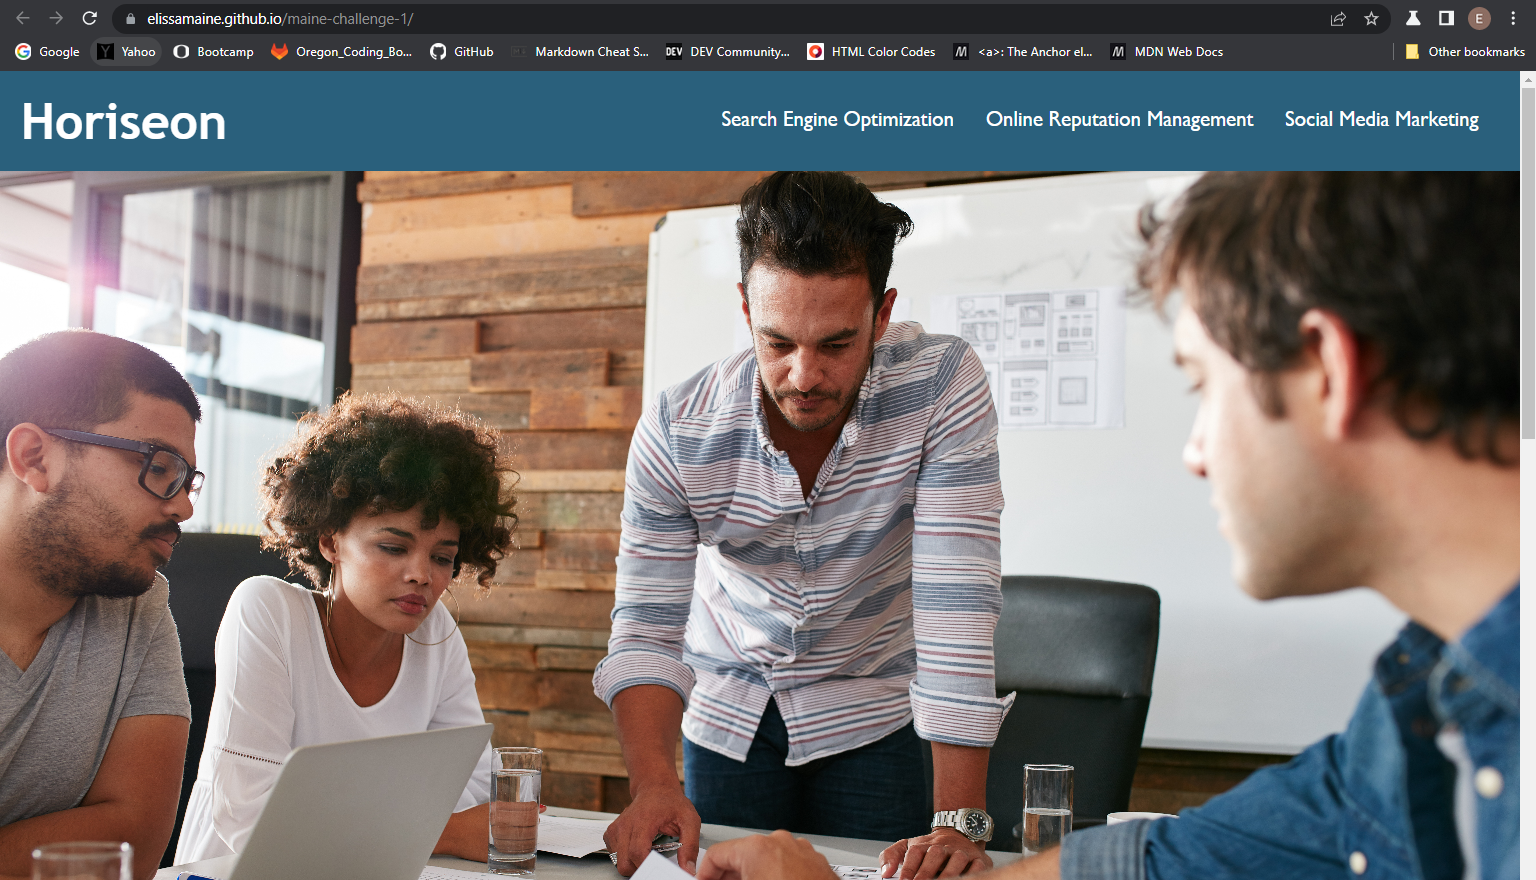
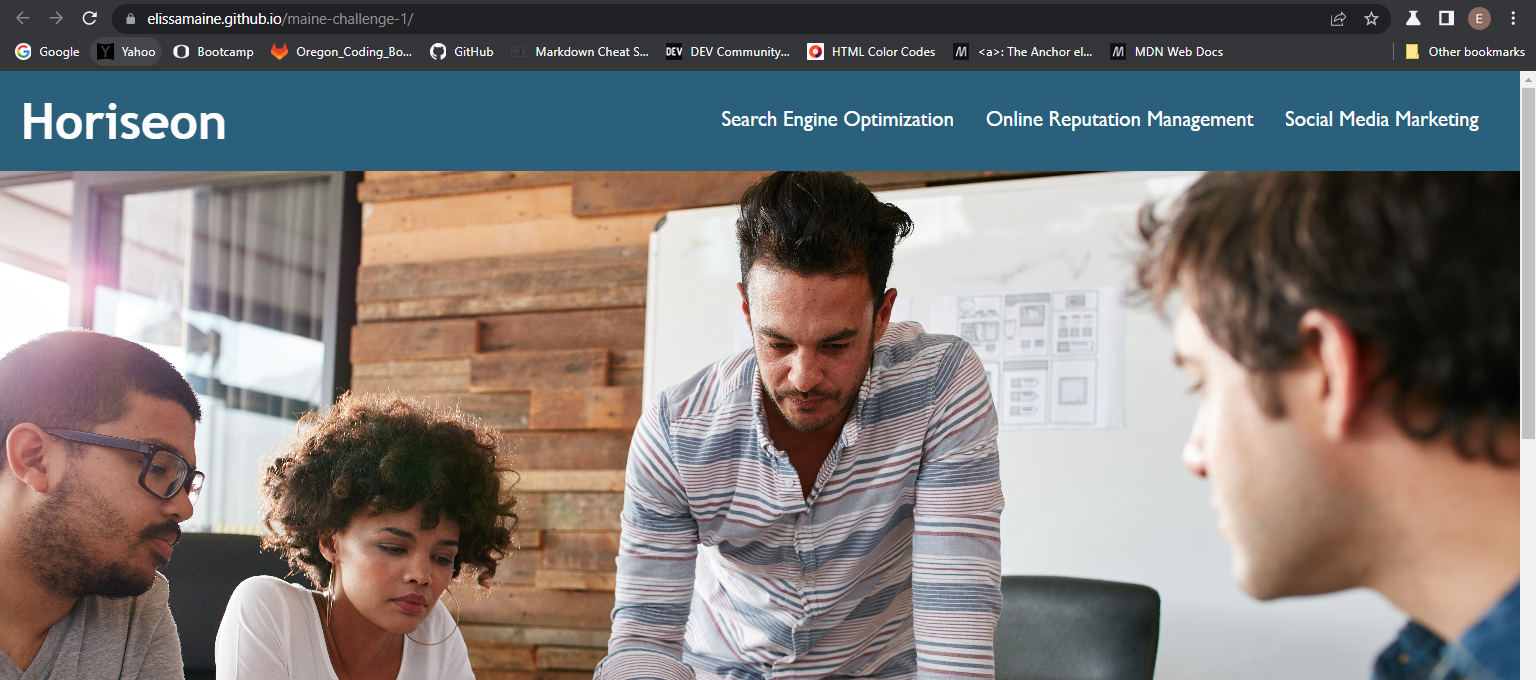
added footer and finished the body element on the css, also did some edits to html doc

diff --git a/index.html b/index.html
@@ -33,12 +33,12 @@
 
             <section class="page-section" id="about-me">
                 <h2>&#127812 About Me</h2>
+                 <div class="picture-of-me">
+                    <img src="./assets/images/picture-of-me-1.jpg" alt="picture of Elissa Maine">
+                </div>
                 <div>
                     <p>Hello! my name is Elissa Maine! I'm 25, and originally from San Diego California but have recently moved to southern Washington. I am currently studying to become a developer through the University of Oregon's coding bootcamp. I originally got my degree in Geology, but decided to change paths to a career that I would enjoy more.</p>
                     <p>I had no prior coding experience before enrolling in the coding bootcamp, and I've already learned a lot in the first 3 weeks of the course. I'm excited to learn a lot more in the upcoming weeks and find a job puting these skills to use. </p>
-                </div>
-                <div class="picture-of-me">
-                    <img src="./assets/images/picture-of-me-1.jpg" alt="picture of Elissa Maine">
                 </div>
             </section>
 
@@ -66,18 +66,11 @@
                         </div> 
                     </a>
                 
-                    <a href="#" class="flex-item future-1">
+                    <a href="#" class="flex-item future">
                        <div>
                             <h3>Future Projects</h3>
                             <span>Check GitHub for newly finished projects</span>
                         </div> 
-                    </a>
-
-                    <a href="#" class="flex-item future-2">
-                        <div>
-                            <h3>Future Projects</h3>
-                            <span>Check GitHub for newly finished projects</span>
-                        </div>
                     </a>
                 </div>
             </section>

diff --git a/assets/css/style.css b/assets/css/style.css
@@ -18,7 +18,7 @@ body{
     color: var(--indigo);
     background-color: var(--cream);
     line-height: 1.5;
-    font-family: 'Lucida Sans', 'Lucida Sans Regular', 'Lucida Grande', 'Lucida Sans Unicode', Geneva, Verdana, sans-serif;
+    font-family: 'Trebuchet MS', 'Lucida Sans Unicode', 'Lucida Grande', 'Lucida Sans', Arial, sans-serif;
 }
 
 h1,
@@ -116,8 +116,6 @@ main {
     margin-right: auto;
 }
 
-
-
 .page-section {
     margin: 25px 0;
     padding: 10px 0;
@@ -144,14 +142,22 @@ main {
 .page-section p {
     margin-bottom: 20px;
 }
+
+#about-me div {
+    justify-content: space-between;
+    display: flex;
+    flex-wrap: wrap;
+    flex-direction: column;
+}
+
 .picture-of-me {
    background-color: var(--lavender);
    border: 4px var(--light-purple);
    padding: 10px;
    max-width: 303px;
    border-radius: 10px;
-   margin-left: 0;
-   flex-direction: row;
+   display: flex;
+   flex-wrap: wrap;
 }
 
 /*.picture-of-me p {
@@ -164,11 +170,12 @@ main {
     max-width: 300px;
     border-radius: 10px;
 }
-.flex-container {
+
+/*.flex-container {
     display: flex;
     flex-wrap: wrap;
     justify-content: center;
-}
+}*/
 
 .flex-item {
     border: 5px dashed var(--lavender);
@@ -195,7 +202,7 @@ main {
 }
 
 .flex-item:hover {
-    background-color: var(--cream);
+    background-color: #6d6c6c;
 }
 
 .flex-item div {
@@ -234,4 +241,24 @@ main {
     background-size: 100% 88%;
 }
 
+.future {
+    background-image: url("../images/laptop.jpg");
+}
 
+.portfolio {
+    background-image: url("../images/coming-soon.jpg");
+}
+
+.prework {
+    background-image: url("../images/prework-study-guide.png");
+}
+
+.challenge1 {
+    background-image: url("../images/first-challenge.png");
+}
+
+footer {
+    color: var(--cream);
+    background-color: var(--lavender);
+    text-align: center;
+}
